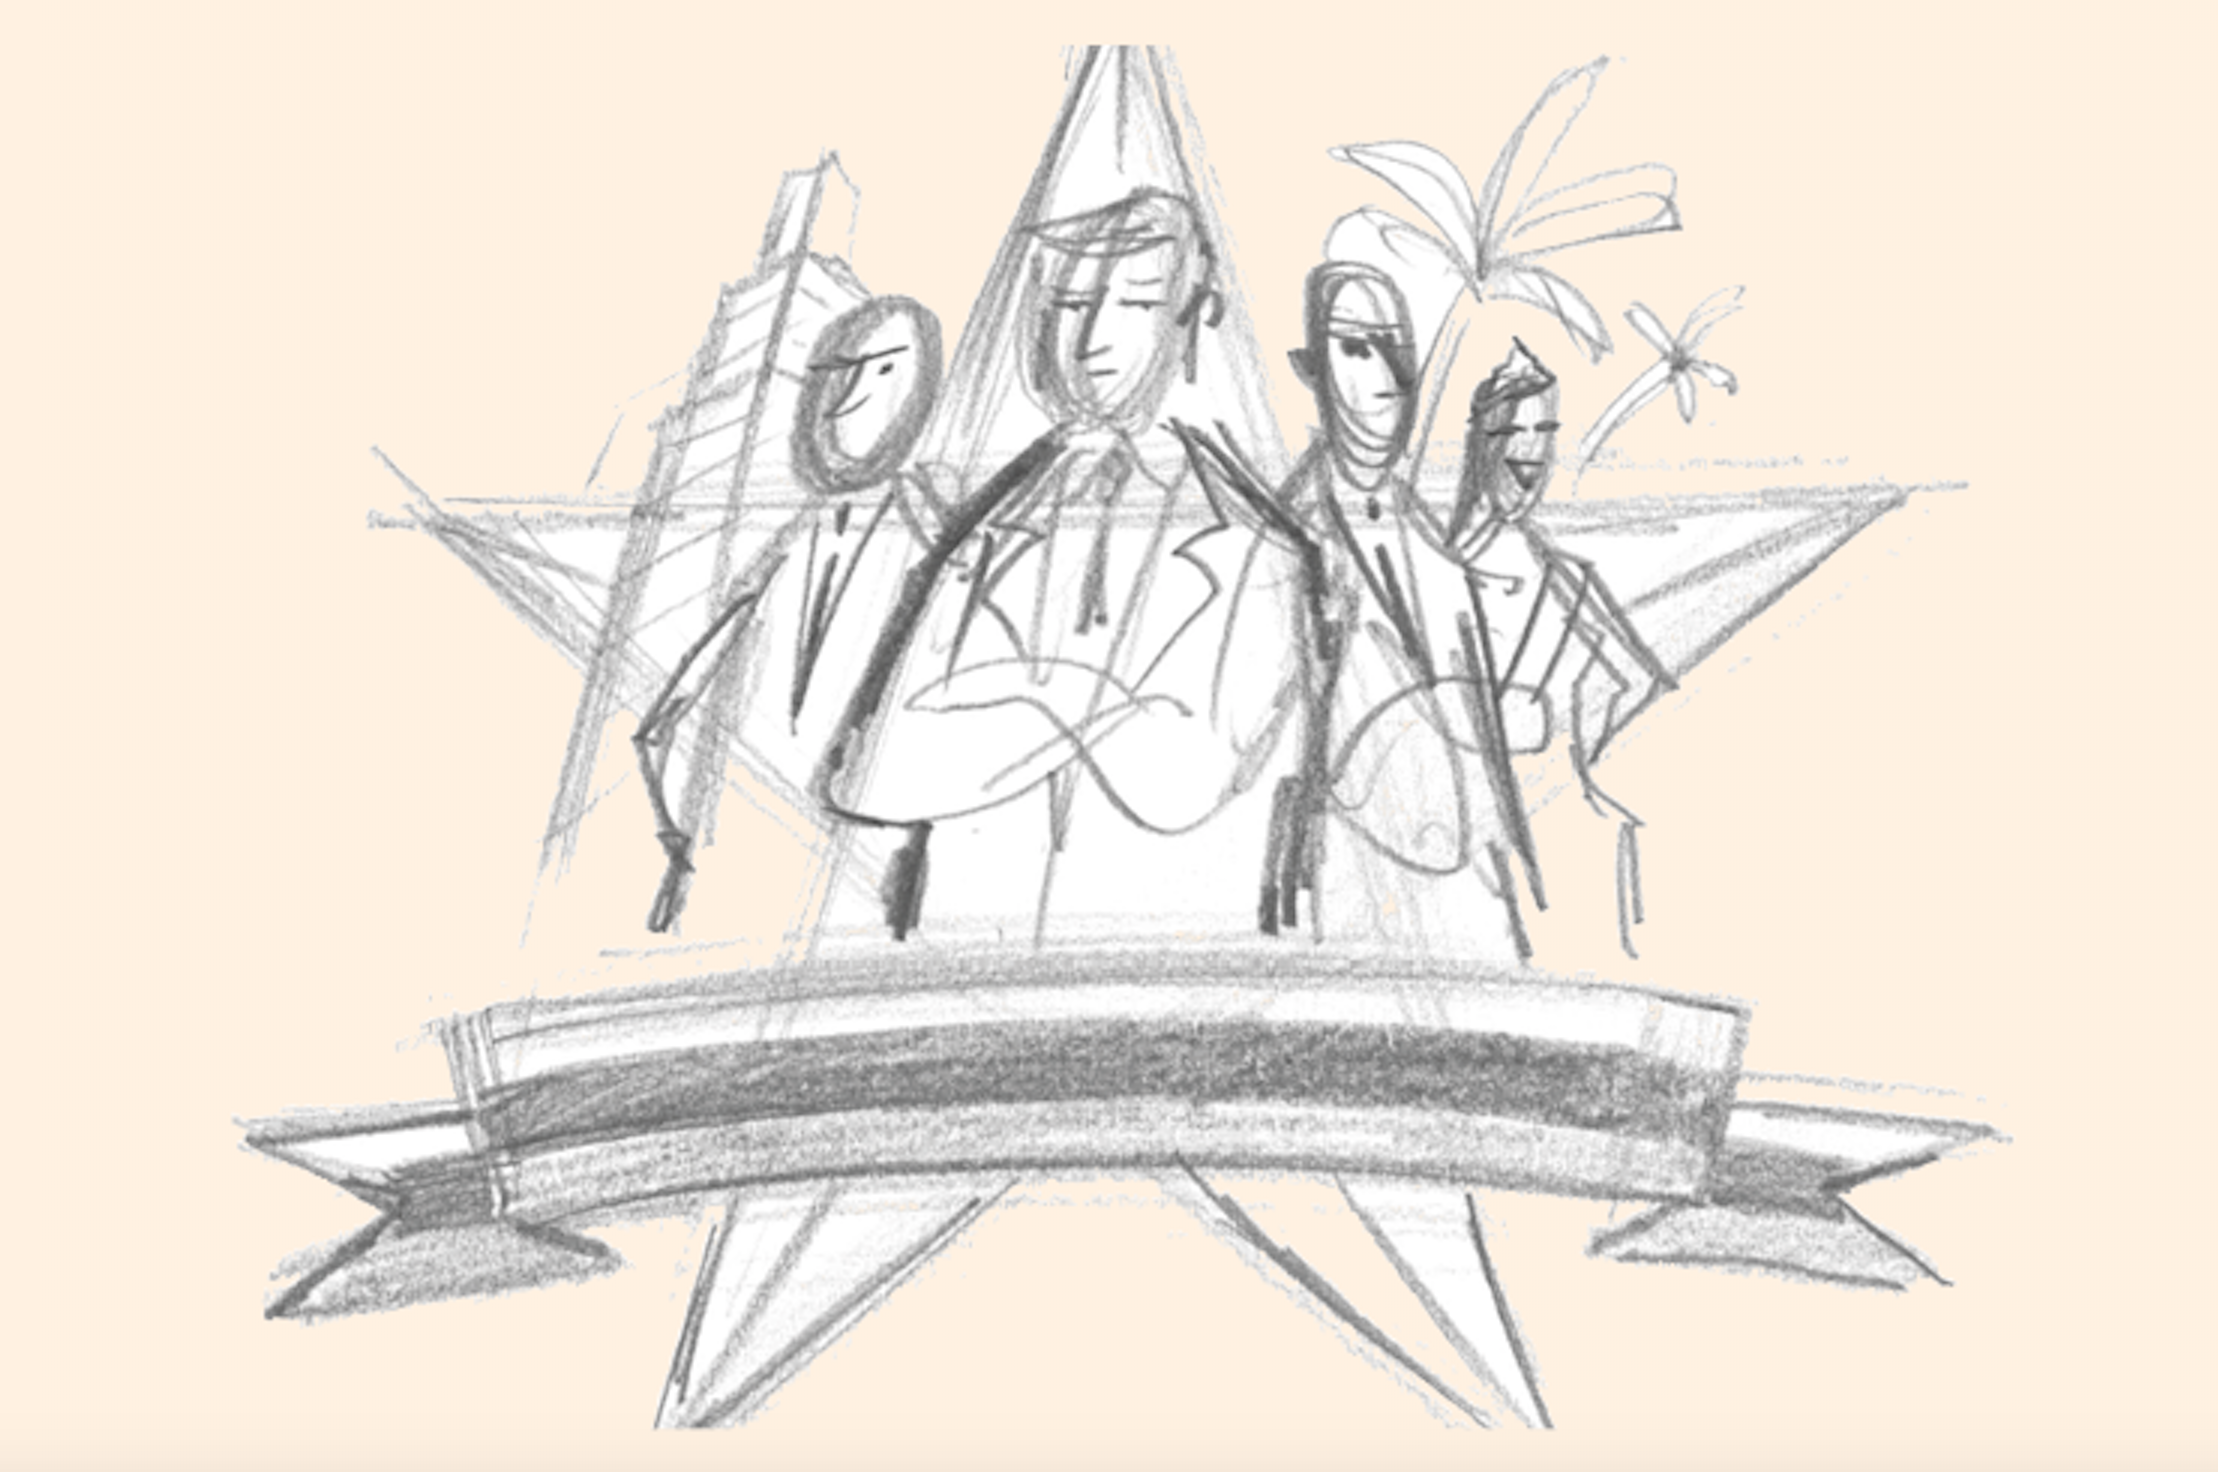
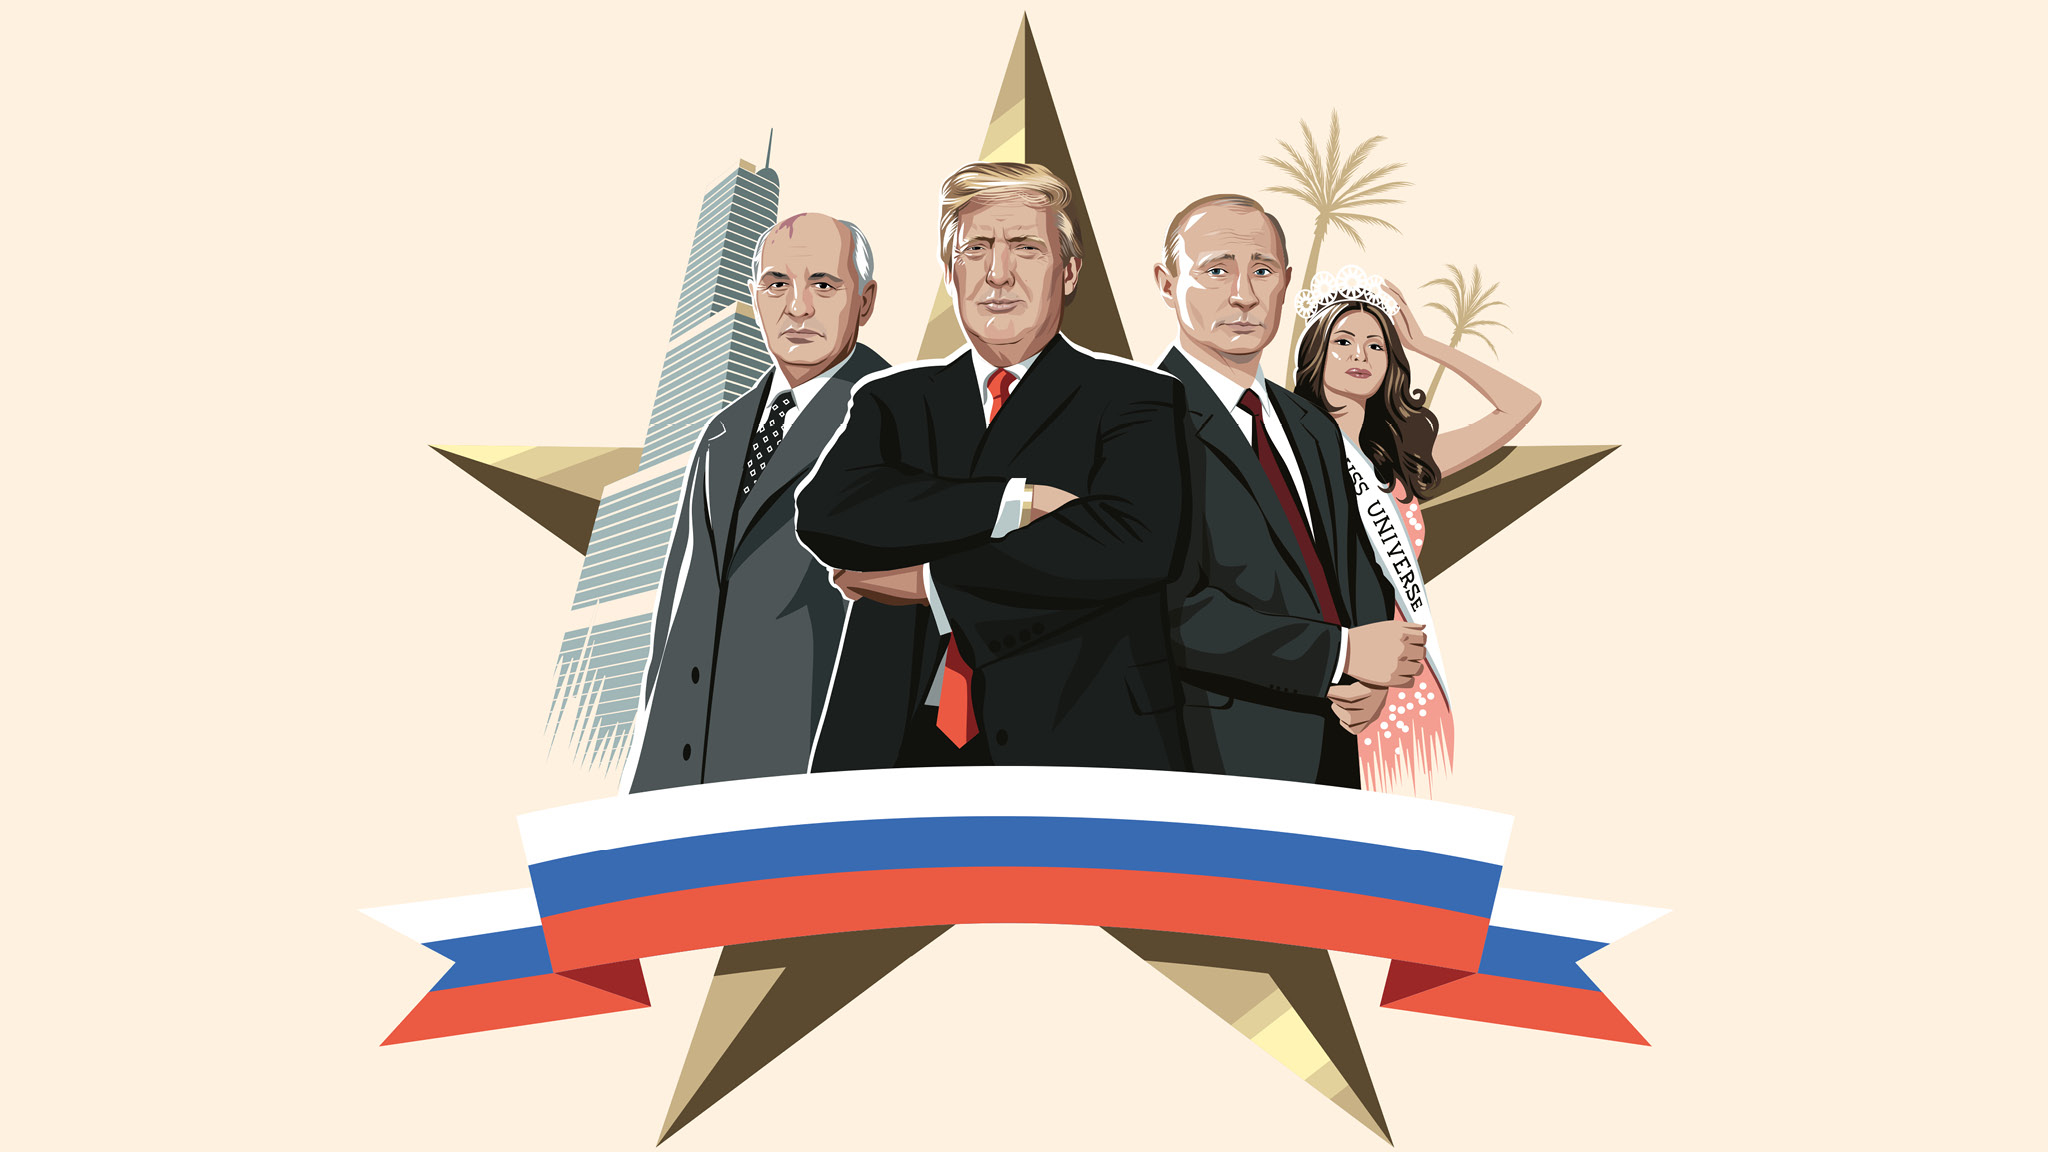
add images

diff --git a/config/article.js b/config/article.js
@@ -11,11 +11,10 @@ export default () => ({ // eslint-disable-line
   //       new Date('2016-05-17T17:11:22Z')
   publishedDate: new Date(),
 
-  headline: 'Trump\'s Russian World: ' + 'Three decades of deals and dollars',
+  headline: 'Trump\'s Russian connections',
 
   // summary === standfirst (Summary is what the content API calls it)
-  summary: 'Political language is designed to make lies sound truthful' +
-           'and murder respectable, and to give an appearance of solidity to pure wind',
+  summary: 'The Republican contender\'s fascination with Russia spans 30 years from Gorbachev to Putin, mingling business, entertainment and politics',
 
   topic: {
     name: '',
@@ -43,10 +42,10 @@ export default () => ({ // eslint-disable-line
   ],
 
   // Appears in the HTML <title>
-  title: '',
+  title: 'Trump\'s Russian connections span 30 years rom Gorbachev to Putin, mingling business, entertainment and politics',
 
   // meta data
-  description: '',
+  description: 'Pressure on Donald Trump over his ties with Russia has grown after the US formally accused the Russian government of attempting to meddle in November’s presidential election',
 
   /*
   TODO: Select Twitter card type -
@@ -62,9 +61,9 @@ export default () => ({ // eslint-disable-line
         optional social meta data?
   */
   // General social
-  // socialImage: '',
-  // socialHeadline: '',
-  // socialSummary:  '',
+    socialImage: 'https://image.webservices.ft.com/v1/images/raw/https%3A%2F%2Fig.ft.com%2Fstatic%2Ftrumps-russian-connections%2Fmaster.jpg?source=test&width=600&height=300&format=jpg&quality=lossless',
+    socialHeadline: 'Trump\'s Russian world',
+    socialSummary:  'Explore the three decades of bling, bluster and business',
 
   // TWITTER
   // twitterImage: '',

diff --git a/client/styles.scss b/client/styles.scss
@@ -7,7 +7,7 @@ a {
 }
 
 h1.o-typography-heading1 {
-  font-size: 36px;
+  font-size: 34px;
   color: #333333;
   line-height: 33px;
   text-align: center;
@@ -26,7 +26,7 @@ hr {
     width: 20em;
 }
 
-.o-typography-lead {
+o-typography-link {
   font-family: MetricWeb, sans-serif;
   font-size: 20px;
   line-height: 24px;
@@ -34,9 +34,18 @@ hr {
   text-align: center;
 }
 
+.o-typography-lead > .o-typography-link {
+  font-size: 21px;
+  padding-top: 5px;
+}
+
 figure {
   margin: 0;
   margin-top: 15px;
+}
+
+.big-img {
+  display: none;
 }
 
 figcaption.o-typography-caption {
@@ -306,10 +315,14 @@ div.article-body > h2:first-child {
   .article-body > :not(.graphic) {
     padding: 1.8em 0.75em 0.5em;
  }
-   //
-  //  .o-share {
-  //    visibility: visible;
-  //  }
+
+ .big-img {
+   display: block;
+ }
+
+ .small-img {
+   display: none;
+ }
 
   hr {
       width: 30em;

diff --git a/views/includes/article-head.html b/views/includes/article-head.html
@@ -7,14 +7,15 @@
 <p class="o-typography-lead">
   {{ summary | md(true) }}
   {% if relatedArticle %}
-
+  <br>
   <a href="{{ relatedArticle.url }}" class="o-typography-link">{{ relatedArticle.text }}</a>
   {% endif %}
 </p>
 <meta itemprop="dateModified" content="{{ publishedDate | isotime }}">
 
 <figure>
-  <img alt="" src="master.jpg" style="width: 100%" style="float:left"></img>
+  <img alt="" src="master2.gif" class="big-img" style="width: 100%" style="float:left"></img>
+  <img alt="" src="master2small.gif" class="small-img" style="width: 100%" style="float:left" ></img>
   <figcaption class="o-typography-caption">
   </figcaption>
 </figure>
